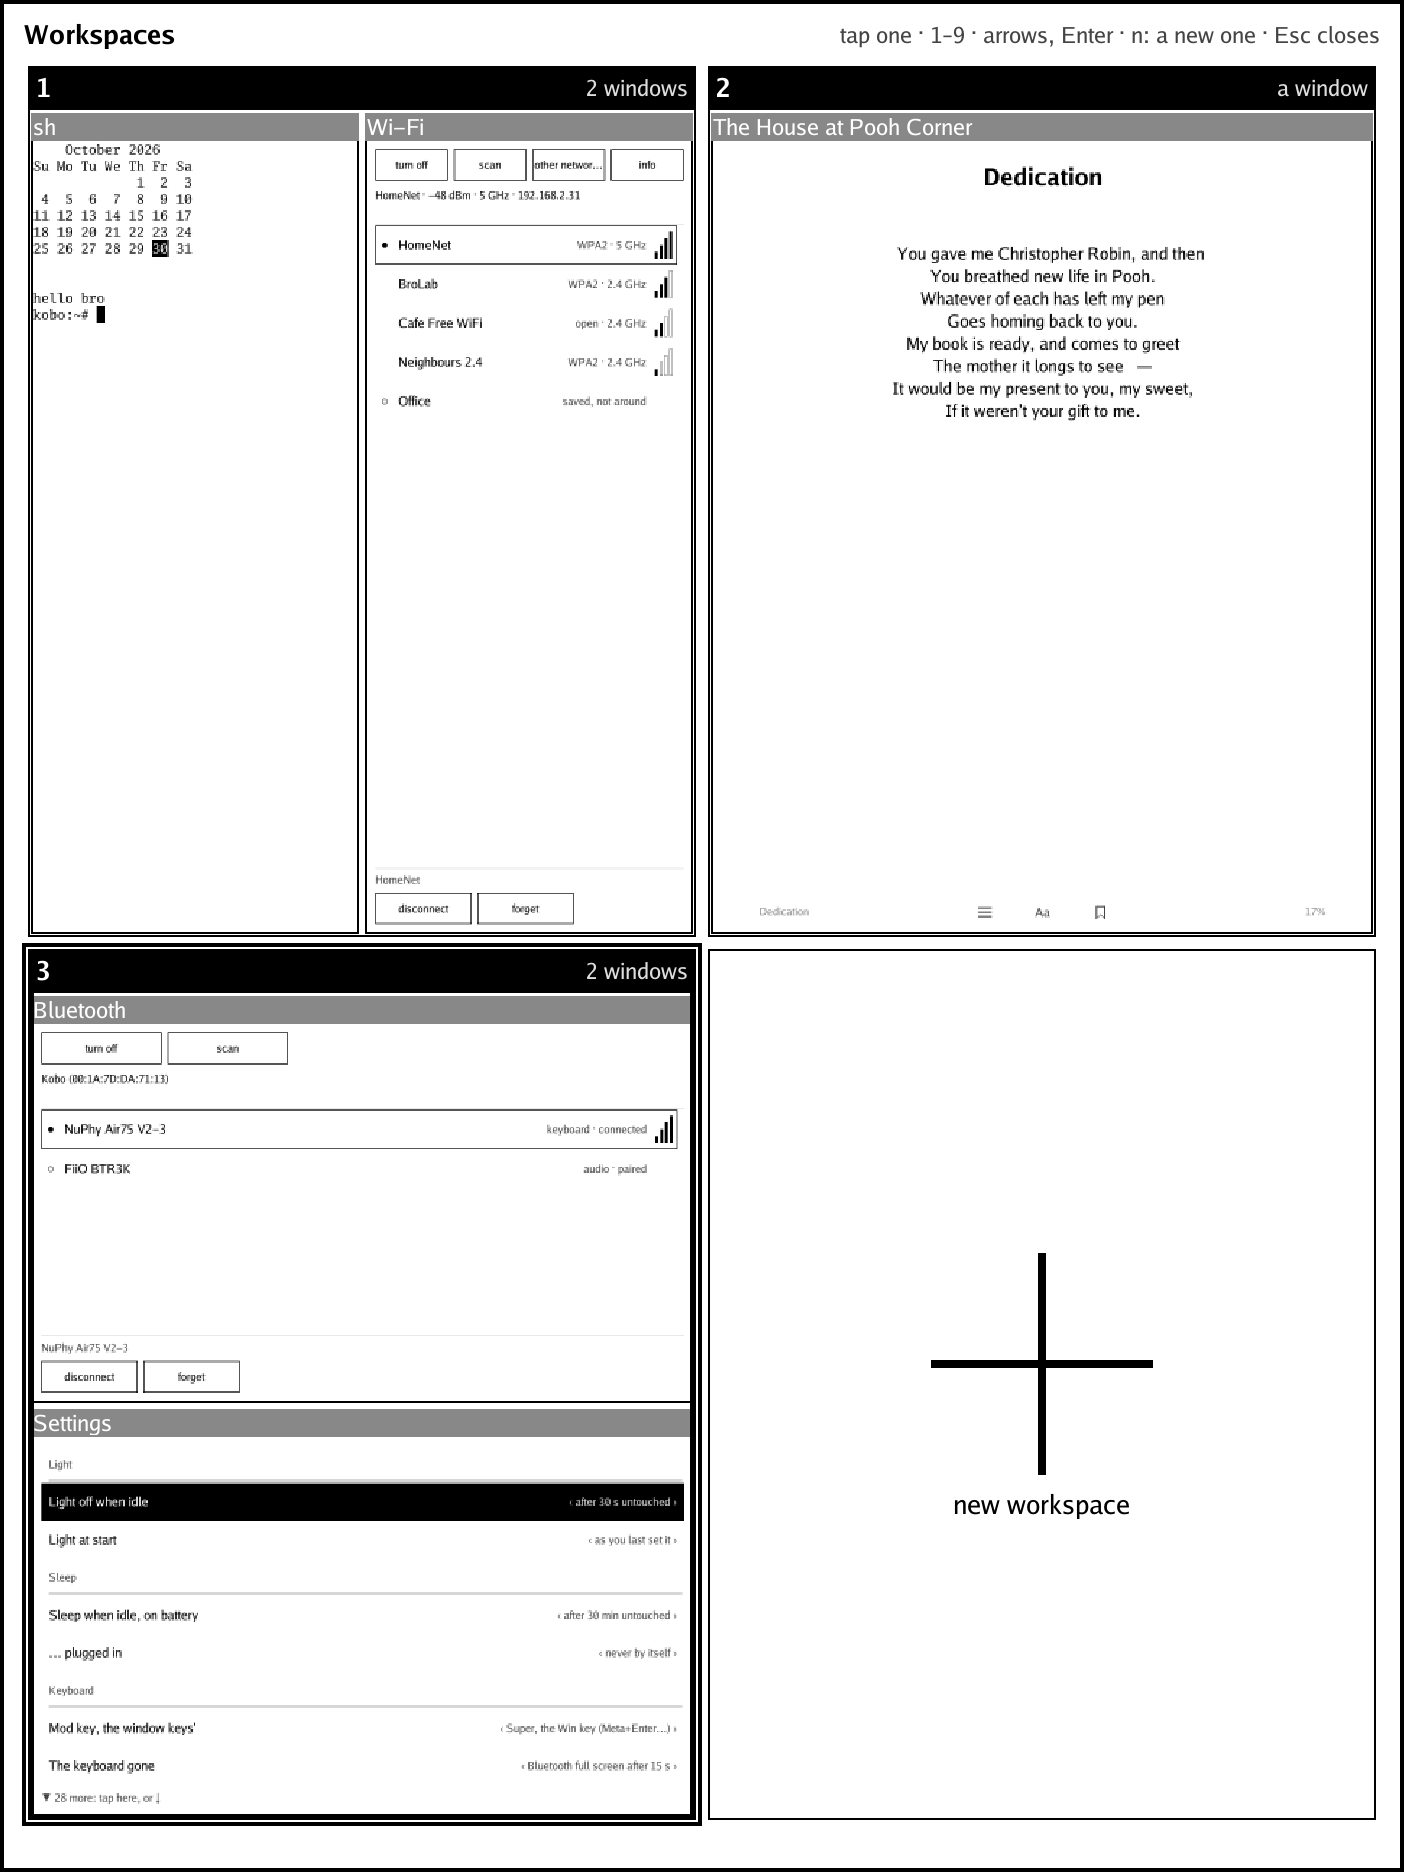
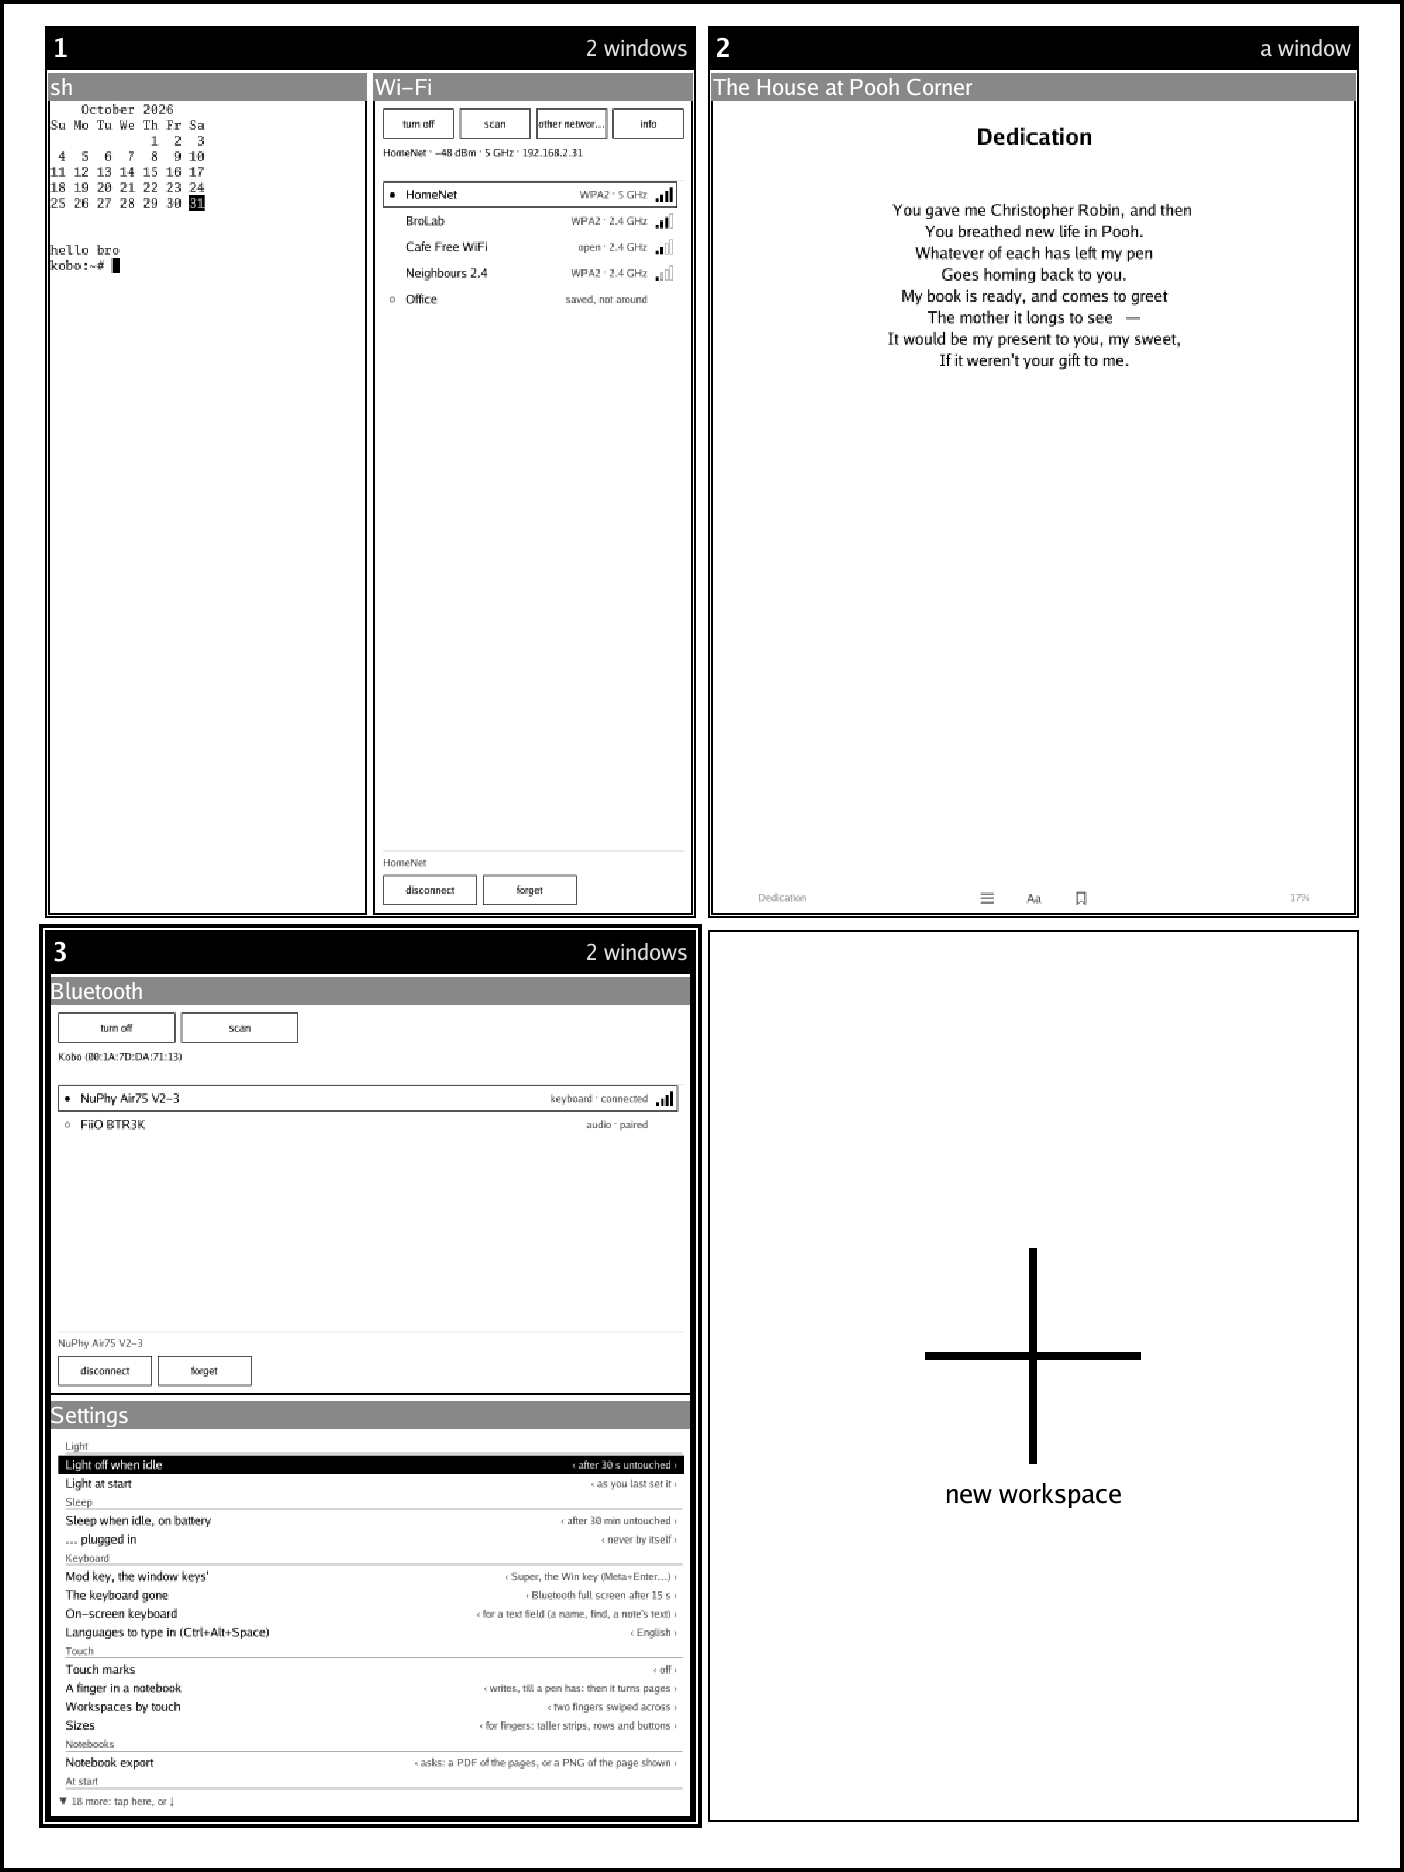
Workspaces: no title or hint over the tiles
The tiles take the whole screen; the keys stay in docs/usage.md.
A picker with no title draws no header. Screenshots taken again.

Claude-Session: https://claude.ai/code/session_01Lu1KeDG2LxkDtgCFrzTZ6M

Changed region(s): [[0.0, 0.0, 0.9801, 0.9915], [0.6432, 0.6506, 0.8269, 0.8056], [0.3981, 0.5887, 0.49, 0.6197]]

diff --git a/cmd/hellobro/picker.go b/cmd/hellobro/picker.go
@@ -55,6 +55,9 @@ type picker struct {
 
 // chrome is the height of p's title, line and margins: what isn't rows.
 func (p *picker) chrome() int {
+	if p.title == "" {
+		return 46
+	}
 	if p.keysOnly {
 		return 86
 	}
@@ -337,15 +340,19 @@ func (a *bro) drawPicker() {
 	c.Fill(p.box, kobo.White)
 	c.Frame(p.box, 4, kobo.Black)
 	head := image.Rect(p.box.Min.X+24, p.box.Min.Y+10, p.box.Max.X-24, p.box.Min.Y+60)
-	c.Text(a.F.Panel, head, p.title, kobo.Black, kobo.AlignLeft)
-	keys := "type to narrow · ↑ ↓ Enter · Esc closes"
-	switch {
-	case p.keysOnly:
-		keys = p.hint
-	case p.tiles > 0:
-		keys = "tap one, or the arrows and Enter · Esc closes"
+	if p.title == "" { // none: the tiles from the top
+		head.Max.Y = p.box.Min.Y + 20
+	} else {
+		c.Text(a.F.Panel, head, p.title, kobo.Black, kobo.AlignLeft)
+		keys := "type to narrow · ↑ ↓ Enter · Esc closes"
+		switch {
+		case p.keysOnly:
+			keys = p.hint
+		case p.tiles > 0:
+			keys = "tap one, or the arrows and Enter · Esc closes"
+		}
+		c.Text(a.F.Small, head, keys, kobo.Dark, kobo.AlignRight)
 	}
-	c.Text(a.F.Small, head, keys, kobo.Dark, kobo.AlignRight)
 	in := image.Rect(p.box.Min.X+20, head.Max.Y-4, p.box.Max.X-20, head.Max.Y-4)
 	if !p.keysOnly {
 		in = image.Rect(p.box.Min.X+20, head.Max.Y+6, p.box.Max.X-20, head.Max.Y+64)

diff --git a/cmd/hellobro/workspaces.go b/cmd/hellobro/workspaces.go
@@ -87,8 +87,8 @@ func (a *bro) openWorkspaces() {
 	}
 	es = append(es, pickEntry{kind: "workspace", title: "New workspace", detail: "+",
 		paint: func(r image.Rectangle) { a.drawNewTile(r) }, do: a.newWorkspace})
-	p := &picker{title: "Workspaces", hint: "tap one · 1–9 · arrows, Enter · n: a new one · Esc closes",
-		all: es, tiles: 1, wide: true, keysOnly: true, refresh: a.drawThumbs}
+	p := &picker{all: es, // no title nor hint: the tiles have the whole screen; the keys are in the docs
+		tiles: 1, wide: true, keysOnly: true, refresh: a.drawThumbs}
 	p.key = func(ch string) {
 		switch {
 		case ch >= "0" && ch <= "9": // as Meta+1…0
